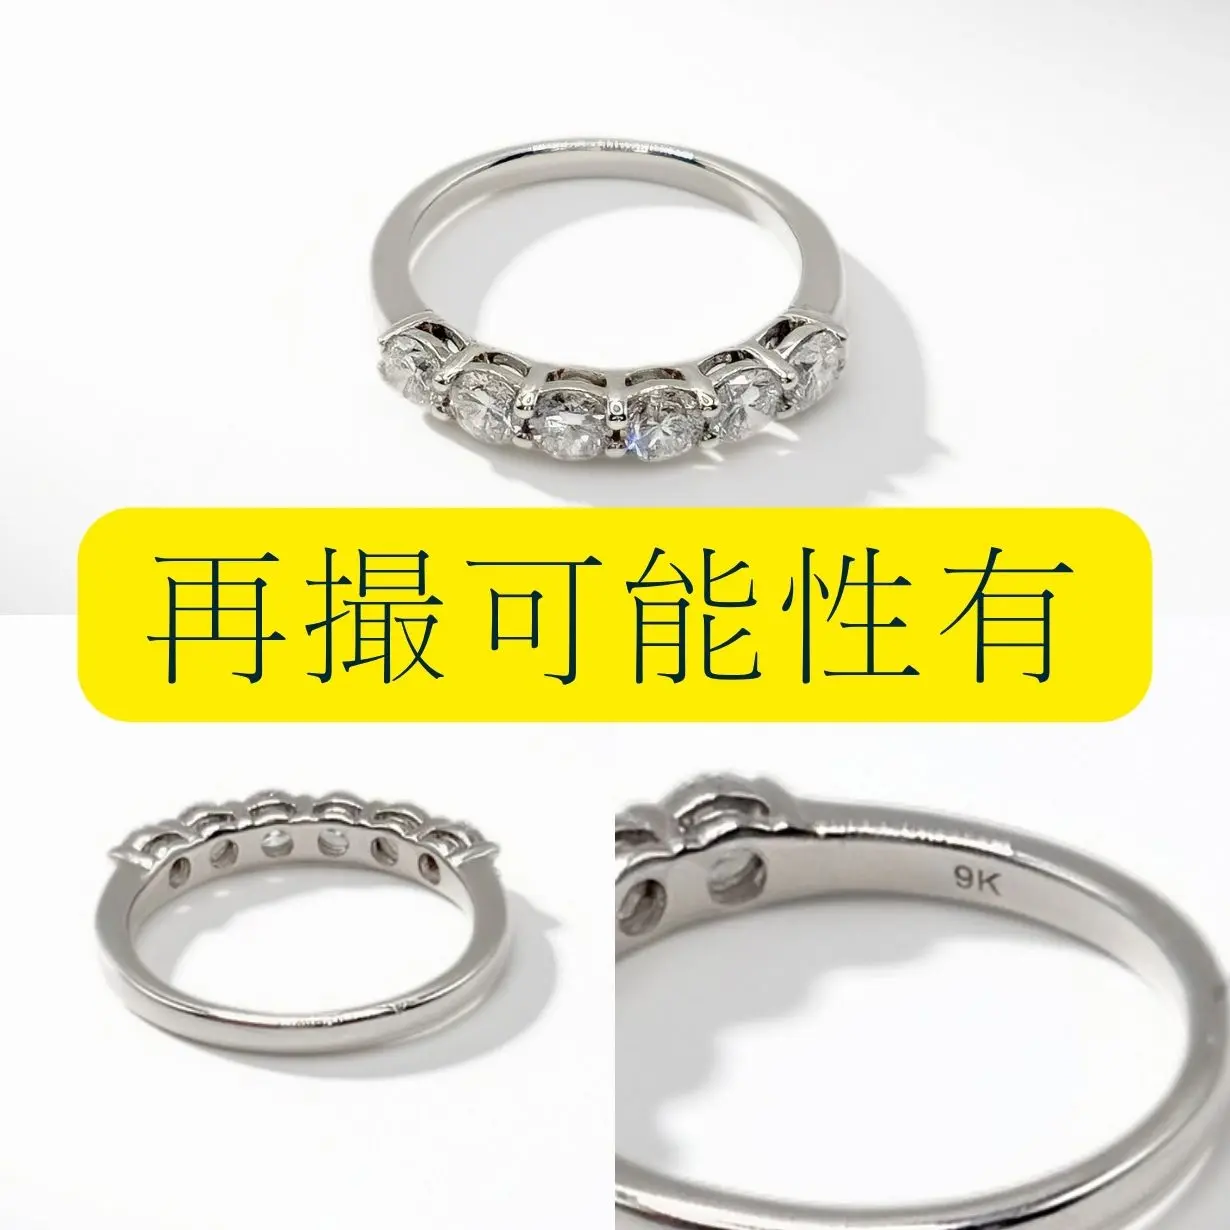
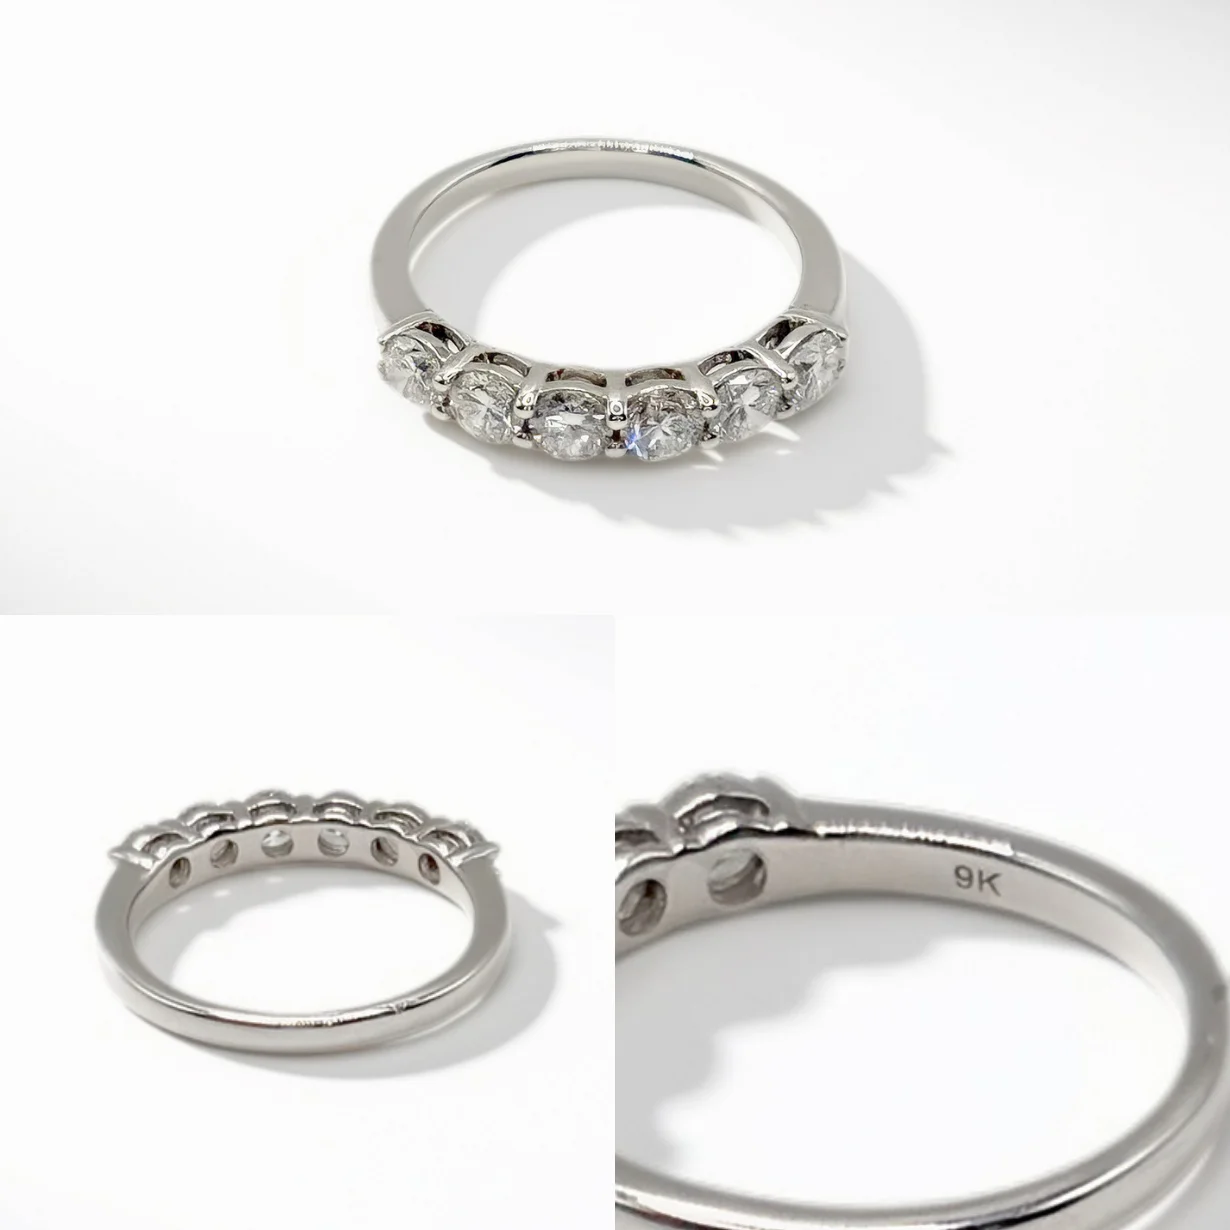
商品写真の仮画像を整理：再撮予定の正面写真を削除し、3分割写真を本番用に差し替え

Changed region(s): [[0.0618, 0.4016, 0.9577, 0.587]]

diff --git a/index.html b/index.html
@@ -18,7 +18,7 @@
 .line-float.is-visible{opacity:1;visibility:visible;transform:none}
 .line-float svg{width:32px;height:auto}
 @media(prefers-reduced-motion:reduce){.line-float{transition:none}}
-</style></head><body><main aria-label="MOHS ハーフエタニティリング"><div class="hero-banner"><img src="assets/fv-main.webp" width="1230" height="2187" alt="MOHS 1ctの輝きを、もっと日常に ラボグロウンダイヤモンドが輝く、ハーフエタニティリング 12.1 Makuake 先行販売 超早割 ¥89,800 限定3点" loading="eager" decoding="async"><a class="line-cta" href="https://lin.ee/tXXrxcO" target="_blank" rel="noopener noreferrer"><span>LINE登録でお得に</span><span class="cta-arrow" aria-hidden="true"></span></a></div><img src="assets/fv-copy.webp" width="1230" height="1230" alt="仕事の日も、休日も なんでもない日を、ほんの少し特別に。ふと目に入るたびに嬉しくなる。いつもの装いのなかに大粒ダイヤモンドの輝きを。6石で合計1ct IGI鑑定書付き ハーフエタニティリング" loading="eager" decoding="async"><img src="assets/2.webp" width="1230" height="1640" alt="MOHS 商品紹介 3" loading="eager" decoding="async"><div class="sale-banner"><img src="assets/sale-cta.webp" width="1230" height="1640" alt="Makuake 12.1 TUE 12:00 START 超早割 限定3点 一般販売価格¥139,800(税込)から35%OFF ¥89,800(税込) LINE事前登録の方限定 開始日時・商品情報・早割情報をLINE友だちご登録で優先的にご案内します" loading="eager" decoding="async"><a class="line-cta" href="https://lin.ee/tXXrxcO" target="_blank" rel="noopener noreferrer"><span>LINE登録でお得に</span><span class="cta-arrow" aria-hidden="true"></span></a></div><video class="ring-video" src="assets/ring-sparkle.mp4" poster="assets/ring-sparkle-poster.webp" width="1280" height="720" autoplay muted loop playsinline preload="metadata" aria-label="指輪のダイヤモンドがきらめく様子"></video><img src="assets/5.webp" width="1230" height="350" alt="MOHS 商品紹介 6" loading="lazy" decoding="async"><img src="assets/6.webp" width="1230" height="2984" alt="MOHS 商品紹介 7" loading="lazy" decoding="async"><img src="assets/7.webp" width="1230" height="350" alt="MOHS 商品紹介 8" loading="lazy" decoding="async"><img src="assets/8.webp" width="1230" height="2984" alt="ダイヤモンド。実は、とっても日常向き 擦り傷に強い・水に強い ダイヤモンドはモース硬度で最高値の10。宝石の中で最も硬く、日常生活での擦り傷が付きにくいのが特徴です。リングの手のひら側は地金のみで仕立て、着け心地にも配慮しました。ダイヤモンドを留める爪には丸みを。ストッキングやニットにも引っかかりにくいよう、細部まで工夫しています。" loading="lazy" decoding="async"><img src="assets/9.gif" width="738" height="984" alt="MOHS 商品紹介 10" loading="lazy" decoding="async"><img src="assets/10.webp" width="1230" height="820" alt="MOHS 商品紹介 11" loading="lazy" decoding="async"><img src="assets/11.webp" width="1230" height="2984" alt="MOHS 商品紹介 12" loading="lazy" decoding="async"><img src="assets/12.webp" width="1230" height="1230" alt="MOHS 商品紹介 13" loading="lazy" decoding="async"><img src="assets/13.webp" width="1230" height="350" alt="MOHS 商品紹介 14" loading="lazy" decoding="async"><img src="assets/14.webp" width="1230" height="2984" alt="ダイヤモンドを支える地金には、9Kホワイトゴールドを選びました。01 金のジュエリーであること 金を37.5%含む9Kゴールド。02 日々のお手入れが楽であること 03 価格とのバランスがよいこと 18Kより金の含有率を抑え、石の存在感と金地金を、無理のない価格で。素材のアップグレードも可能です ご希望に応じて、18Kホワイトゴールド・プラチナ(Pt950)への変更も承ります。※オプション料金がかかります" loading="lazy" decoding="async"><img src="assets/17.webp" width="1230" height="350" alt="MOHS 商品紹介 18" loading="lazy" decoding="async"><img src="assets/18.webp" width="1230" height="3411" alt="アメリカでは、ラボグロウンダイヤモンドのシェアが約50%に達しています。天然約50.1% ラボグロウン約49.9%。天然由来の希少性だけではない、新しい価値観が世界中で広がっています。2026年10月には、テレビ東京「WBS」でも特集されました。ダイヤモンドの新しい選択肢として、存在感を増しています。※番組内では「人工ダイヤ」と表現されています。本商品が紹介されたものではありません。WBSの放送画面：京セラ手掛ける人工ダイヤ 世界で需要拡大、低価格の人工ダイヤに注目" loading="lazy" decoding="async"><img src="assets/19.webp" width="1230" height="350" alt="MOHS 商品紹介 20" loading="lazy" decoding="async"><img src="assets/20.webp" width="1230" height="1230" alt="MOHS 商品紹介 21" loading="lazy" decoding="async"><img src="assets/21.webp" width="1230" height="820" alt="IGI鑑定書付き IGI(International Gemological Institute)のラボグロウンダイヤモンド鑑定書のサンプルと、リングケースに入ったリング、MOHS TOKYOのカード" loading="lazy" decoding="async"><img src="assets/22.webp" width="1230" height="2984" alt="MOHS 商品紹介 23" loading="lazy" decoding="async"><aside class="quality-notes" aria-label="ダイヤモンドの品質と鑑定書についての注意事項"><p>※上記グレードは仕入れ元の品質基準です。カットグレードは鑑定書には記載されていません。</p><p>※鑑定書は完成品のリングに対して発行されるもので、一石ごとに付属するものではありません。</p></aside><img src="assets/23.webp" width="1230" height="350" alt="MOHS 商品紹介 24" loading="lazy" decoding="async"><div class="origin-copy"><p>世界各地から宝石やバイヤーが集まるタイは、ジュエリーの製造・取引で世界的に知られる拠点のひとつです。</p></div><img src="assets/24.webp" width="1230" height="1640" alt="MOHS 商品紹介 25" loading="lazy" decoding="async"><div class="origin-copy"><p>旅行先のこの地で、ラボグロウンダイヤモンドのジュエリーを手に取りました。</p><p>その美しさと、ダイヤモンドをもっと身近に楽しめる選択肢があることに、心を動かされました。</p><p><strong>「この輝きを、もっと日常の中で楽しめたら。」</strong></p><p>帰国後もその思いは変わらず、素材や品質、価格について検討を重ねました。</p></div><img src="assets/25.webp" width="1230" height="820" alt="MOHS 商品紹介 26" loading="lazy" decoding="async"><div class="origin-copy"><p>タイで出会ったジュエラーとのやり取りを通じて、その思いを形にしたのが、MOHS JEWELRYの最初のリングです。</p></div><div class="sale-banner"><img src="assets/sale-cta.webp" width="1230" height="1640" alt="Makuake 12.1 TUE 12:00 START 超早割 限定3点 一般販売価格¥139,800(税込)から35%OFF ¥89,800(税込) LINE事前登録の方限定 開始日時・商品情報・早割情報をLINE友だちご登録で優先的にご案内します" loading="lazy" decoding="async"><a class="line-cta" href="https://lin.ee/tXXrxcO" target="_blank" rel="noopener noreferrer"><span>LINE登録でお得に</span><span class="cta-arrow" aria-hidden="true"></span></a></div><img src="assets/26.webp" width="1230" height="350" alt="MOHS 商品紹介 27" loading="lazy" decoding="async"><img src="assets/27.webp" width="1230" height="1230" alt="MOHS 商品紹介 28" loading="lazy" decoding="async"><img src="assets/28.webp" width="1230" height="1230" alt="MOHS 商品紹介 29" loading="lazy" decoding="async"><img src="assets/29.webp" width="1230" height="1230" alt="MOHS 商品紹介 30" loading="lazy" decoding="async"><img src="assets/30.webp" width="1230" height="1640" alt="MOHS 商品紹介 31" loading="lazy" decoding="async"><img src="assets/31.webp" width="1230" height="1640" alt="MOHS 商品紹介 32" loading="lazy" decoding="async"><img src="assets/32.webp" width="1230" height="350" alt="MOHS 商品紹介 33" loading="lazy" decoding="async"><section class="detail-copy" aria-label="お届け後のサポートの詳細">
+</style></head><body><main aria-label="MOHS ハーフエタニティリング"><div class="hero-banner"><img src="assets/fv-main.webp" width="1230" height="2187" alt="MOHS 1ctの輝きを、もっと日常に ラボグロウンダイヤモンドが輝く、ハーフエタニティリング 12.1 Makuake 先行販売 超早割 ¥89,800 限定3点" loading="eager" decoding="async"><a class="line-cta" href="https://lin.ee/tXXrxcO" target="_blank" rel="noopener noreferrer"><span>LINE登録でお得に</span><span class="cta-arrow" aria-hidden="true"></span></a></div><img src="assets/fv-copy.webp" width="1230" height="1230" alt="仕事の日も、休日も なんでもない日を、ほんの少し特別に。ふと目に入るたびに嬉しくなる。いつもの装いのなかに大粒ダイヤモンドの輝きを。6石で合計1ct IGI鑑定書付き ハーフエタニティリング" loading="eager" decoding="async"><img src="assets/2.webp" width="1230" height="1640" alt="MOHS 商品紹介 3" loading="eager" decoding="async"><div class="sale-banner"><img src="assets/sale-cta.webp" width="1230" height="1640" alt="Makuake 12.1 TUE 12:00 START 超早割 限定3点 一般販売価格¥139,800(税込)から35%OFF ¥89,800(税込) LINE事前登録の方限定 開始日時・商品情報・早割情報をLINE友だちご登録で優先的にご案内します" loading="eager" decoding="async"><a class="line-cta" href="https://lin.ee/tXXrxcO" target="_blank" rel="noopener noreferrer"><span>LINE登録でお得に</span><span class="cta-arrow" aria-hidden="true"></span></a></div><video class="ring-video" src="assets/ring-sparkle.mp4" poster="assets/ring-sparkle-poster.webp" width="1280" height="720" autoplay muted loop playsinline preload="metadata" aria-label="指輪のダイヤモンドがきらめく様子"></video><img src="assets/5.webp" width="1230" height="350" alt="MOHS 商品紹介 6" loading="lazy" decoding="async"><img src="assets/6.webp" width="1230" height="2984" alt="MOHS 商品紹介 7" loading="lazy" decoding="async"><img src="assets/7.webp" width="1230" height="350" alt="MOHS 商品紹介 8" loading="lazy" decoding="async"><img src="assets/8.webp" width="1230" height="2984" alt="ダイヤモンド。実は、とっても日常向き 擦り傷に強い・水に強い ダイヤモンドはモース硬度で最高値の10。宝石の中で最も硬く、日常生活での擦り傷が付きにくいのが特徴です。リングの手のひら側は地金のみで仕立て、着け心地にも配慮しました。ダイヤモンドを留める爪には丸みを。ストッキングやニットにも引っかかりにくいよう、細部まで工夫しています。" loading="lazy" decoding="async"><img src="assets/9.gif" width="738" height="984" alt="MOHS 商品紹介 10" loading="lazy" decoding="async"><img src="assets/10.webp" width="1230" height="820" alt="MOHS 商品紹介 11" loading="lazy" decoding="async"><img src="assets/11.webp" width="1230" height="2984" alt="MOHS 商品紹介 12" loading="lazy" decoding="async"><img src="assets/12.webp" width="1230" height="1230" alt="MOHS 商品紹介 13" loading="lazy" decoding="async"><img src="assets/13.webp" width="1230" height="350" alt="MOHS 商品紹介 14" loading="lazy" decoding="async"><img src="assets/14.webp" width="1230" height="2984" alt="ダイヤモンドを支える地金には、9Kホワイトゴールドを選びました。01 金のジュエリーであること 金を37.5%含む9Kゴールド。02 日々のお手入れが楽であること 03 価格とのバランスがよいこと 18Kより金の含有率を抑え、石の存在感と金地金を、無理のない価格で。素材のアップグレードも可能です ご希望に応じて、18Kホワイトゴールド・プラチナ(Pt950)への変更も承ります。※オプション料金がかかります" loading="lazy" decoding="async"><img src="assets/17.webp" width="1230" height="350" alt="MOHS 商品紹介 18" loading="lazy" decoding="async"><img src="assets/18.webp" width="1230" height="3411" alt="アメリカでは、ラボグロウンダイヤモンドのシェアが約50%に達しています。天然約50.1% ラボグロウン約49.9%。天然由来の希少性だけではない、新しい価値観が世界中で広がっています。2026年10月には、テレビ東京「WBS」でも特集されました。ダイヤモンドの新しい選択肢として、存在感を増しています。※番組内では「人工ダイヤ」と表現されています。本商品が紹介されたものではありません。WBSの放送画面：京セラ手掛ける人工ダイヤ 世界で需要拡大、低価格の人工ダイヤに注目" loading="lazy" decoding="async"><img src="assets/19.webp" width="1230" height="350" alt="MOHS 商品紹介 20" loading="lazy" decoding="async"><img src="assets/20.webp" width="1230" height="1230" alt="MOHS 商品紹介 21" loading="lazy" decoding="async"><img src="assets/21.webp" width="1230" height="820" alt="IGI鑑定書付き IGI(International Gemological Institute)のラボグロウンダイヤモンド鑑定書のサンプルと、リングケースに入ったリング、MOHS TOKYOのカード" loading="lazy" decoding="async"><img src="assets/22.webp" width="1230" height="2984" alt="MOHS 商品紹介 23" loading="lazy" decoding="async"><aside class="quality-notes" aria-label="ダイヤモンドの品質と鑑定書についての注意事項"><p>※上記グレードは仕入れ元の品質基準です。カットグレードは鑑定書には記載されていません。</p><p>※鑑定書は完成品のリングに対して発行されるもので、一石ごとに付属するものではありません。</p></aside><img src="assets/23.webp" width="1230" height="350" alt="MOHS 商品紹介 24" loading="lazy" decoding="async"><div class="origin-copy"><p>世界各地から宝石やバイヤーが集まるタイは、ジュエリーの製造・取引で世界的に知られる拠点のひとつです。</p></div><img src="assets/24.webp" width="1230" height="1640" alt="MOHS 商品紹介 25" loading="lazy" decoding="async"><div class="origin-copy"><p>旅行先のこの地で、ラボグロウンダイヤモンドのジュエリーを手に取りました。</p><p>その美しさと、ダイヤモンドをもっと身近に楽しめる選択肢があることに、心を動かされました。</p><p><strong>「この輝きを、もっと日常の中で楽しめたら。」</strong></p><p>帰国後もその思いは変わらず、素材や品質、価格について検討を重ねました。</p></div><img src="assets/25.webp" width="1230" height="820" alt="MOHS 商品紹介 26" loading="lazy" decoding="async"><div class="origin-copy"><p>タイで出会ったジュエラーとのやり取りを通じて、その思いを形にしたのが、MOHS JEWELRYの最初のリングです。</p></div><div class="sale-banner"><img src="assets/sale-cta.webp" width="1230" height="1640" alt="Makuake 12.1 TUE 12:00 START 超早割 限定3点 一般販売価格¥139,800(税込)から35%OFF ¥89,800(税込) LINE事前登録の方限定 開始日時・商品情報・早割情報をLINE友だちご登録で優先的にご案内します" loading="lazy" decoding="async"><a class="line-cta" href="https://lin.ee/tXXrxcO" target="_blank" rel="noopener noreferrer"><span>LINE登録でお得に</span><span class="cta-arrow" aria-hidden="true"></span></a></div><img src="assets/26.webp" width="1230" height="350" alt="MOHS 商品紹介 27" loading="lazy" decoding="async"><img src="assets/27.webp" width="1230" height="1230" alt="MOHS 商品紹介 28" loading="lazy" decoding="async"><img src="assets/29.webp" width="1230" height="1230" alt="ハーフエタニティリングの商品写真 6石のダイヤモンドを正面から、リング内側の石座、内側の9K刻印" loading="lazy" decoding="async"><img src="assets/30.webp" width="1230" height="1640" alt="MOHS 商品紹介 31" loading="lazy" decoding="async"><img src="assets/31.webp" width="1230" height="1640" alt="MOHS 商品紹介 32" loading="lazy" decoding="async"><img src="assets/32.webp" width="1230" height="350" alt="MOHS 商品紹介 33" loading="lazy" decoding="async"><section class="detail-copy" aria-label="お届け後のサポートの詳細">
 <p>長くご愛用いただけるよう、修理やサイズ直しなど、お届け後のご相談も承ります。</p>
 <h3>品質保証</h3><p>お届け時に初期不良が認められた場合は、無償で修理または交換いたします。商品到着後14日以内にご連絡ください。</p>
 <h3>修理・サイズ直し</h3><p>ご使用による傷・変形・破損や、サイズ直しは有償で承ります。対応の可否や費用は、リングの状態により異なります。</p>
